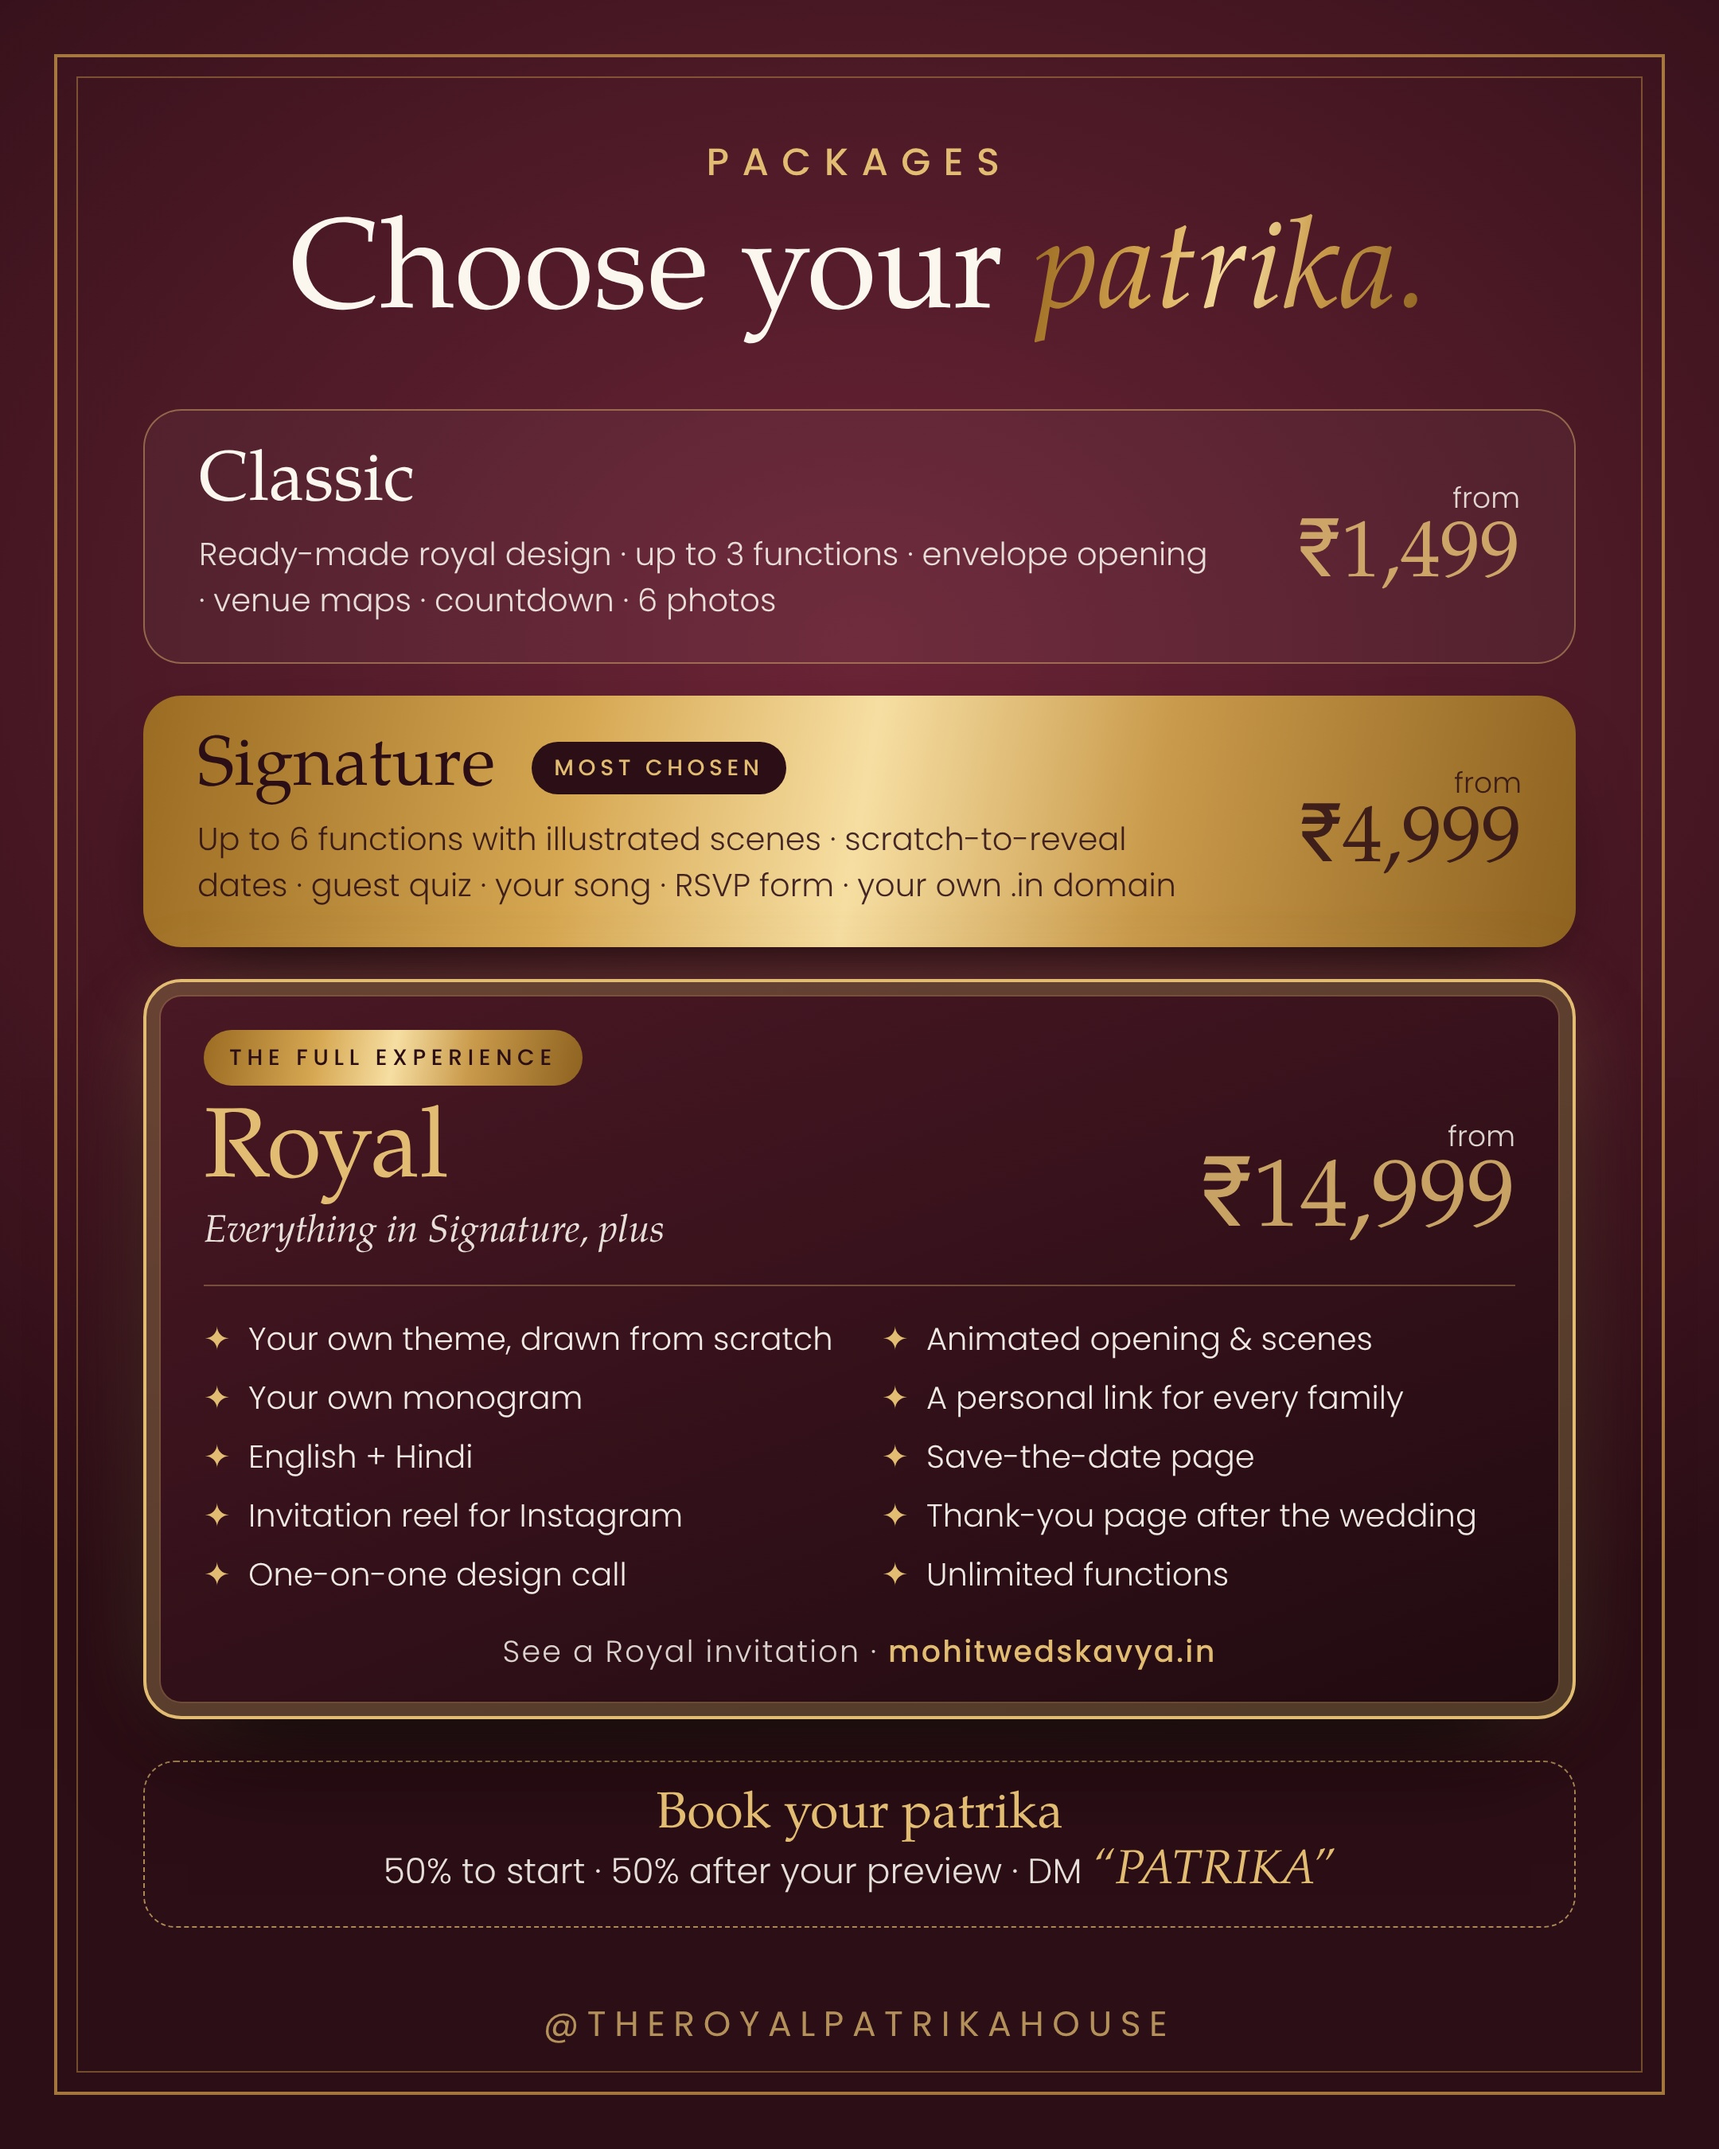
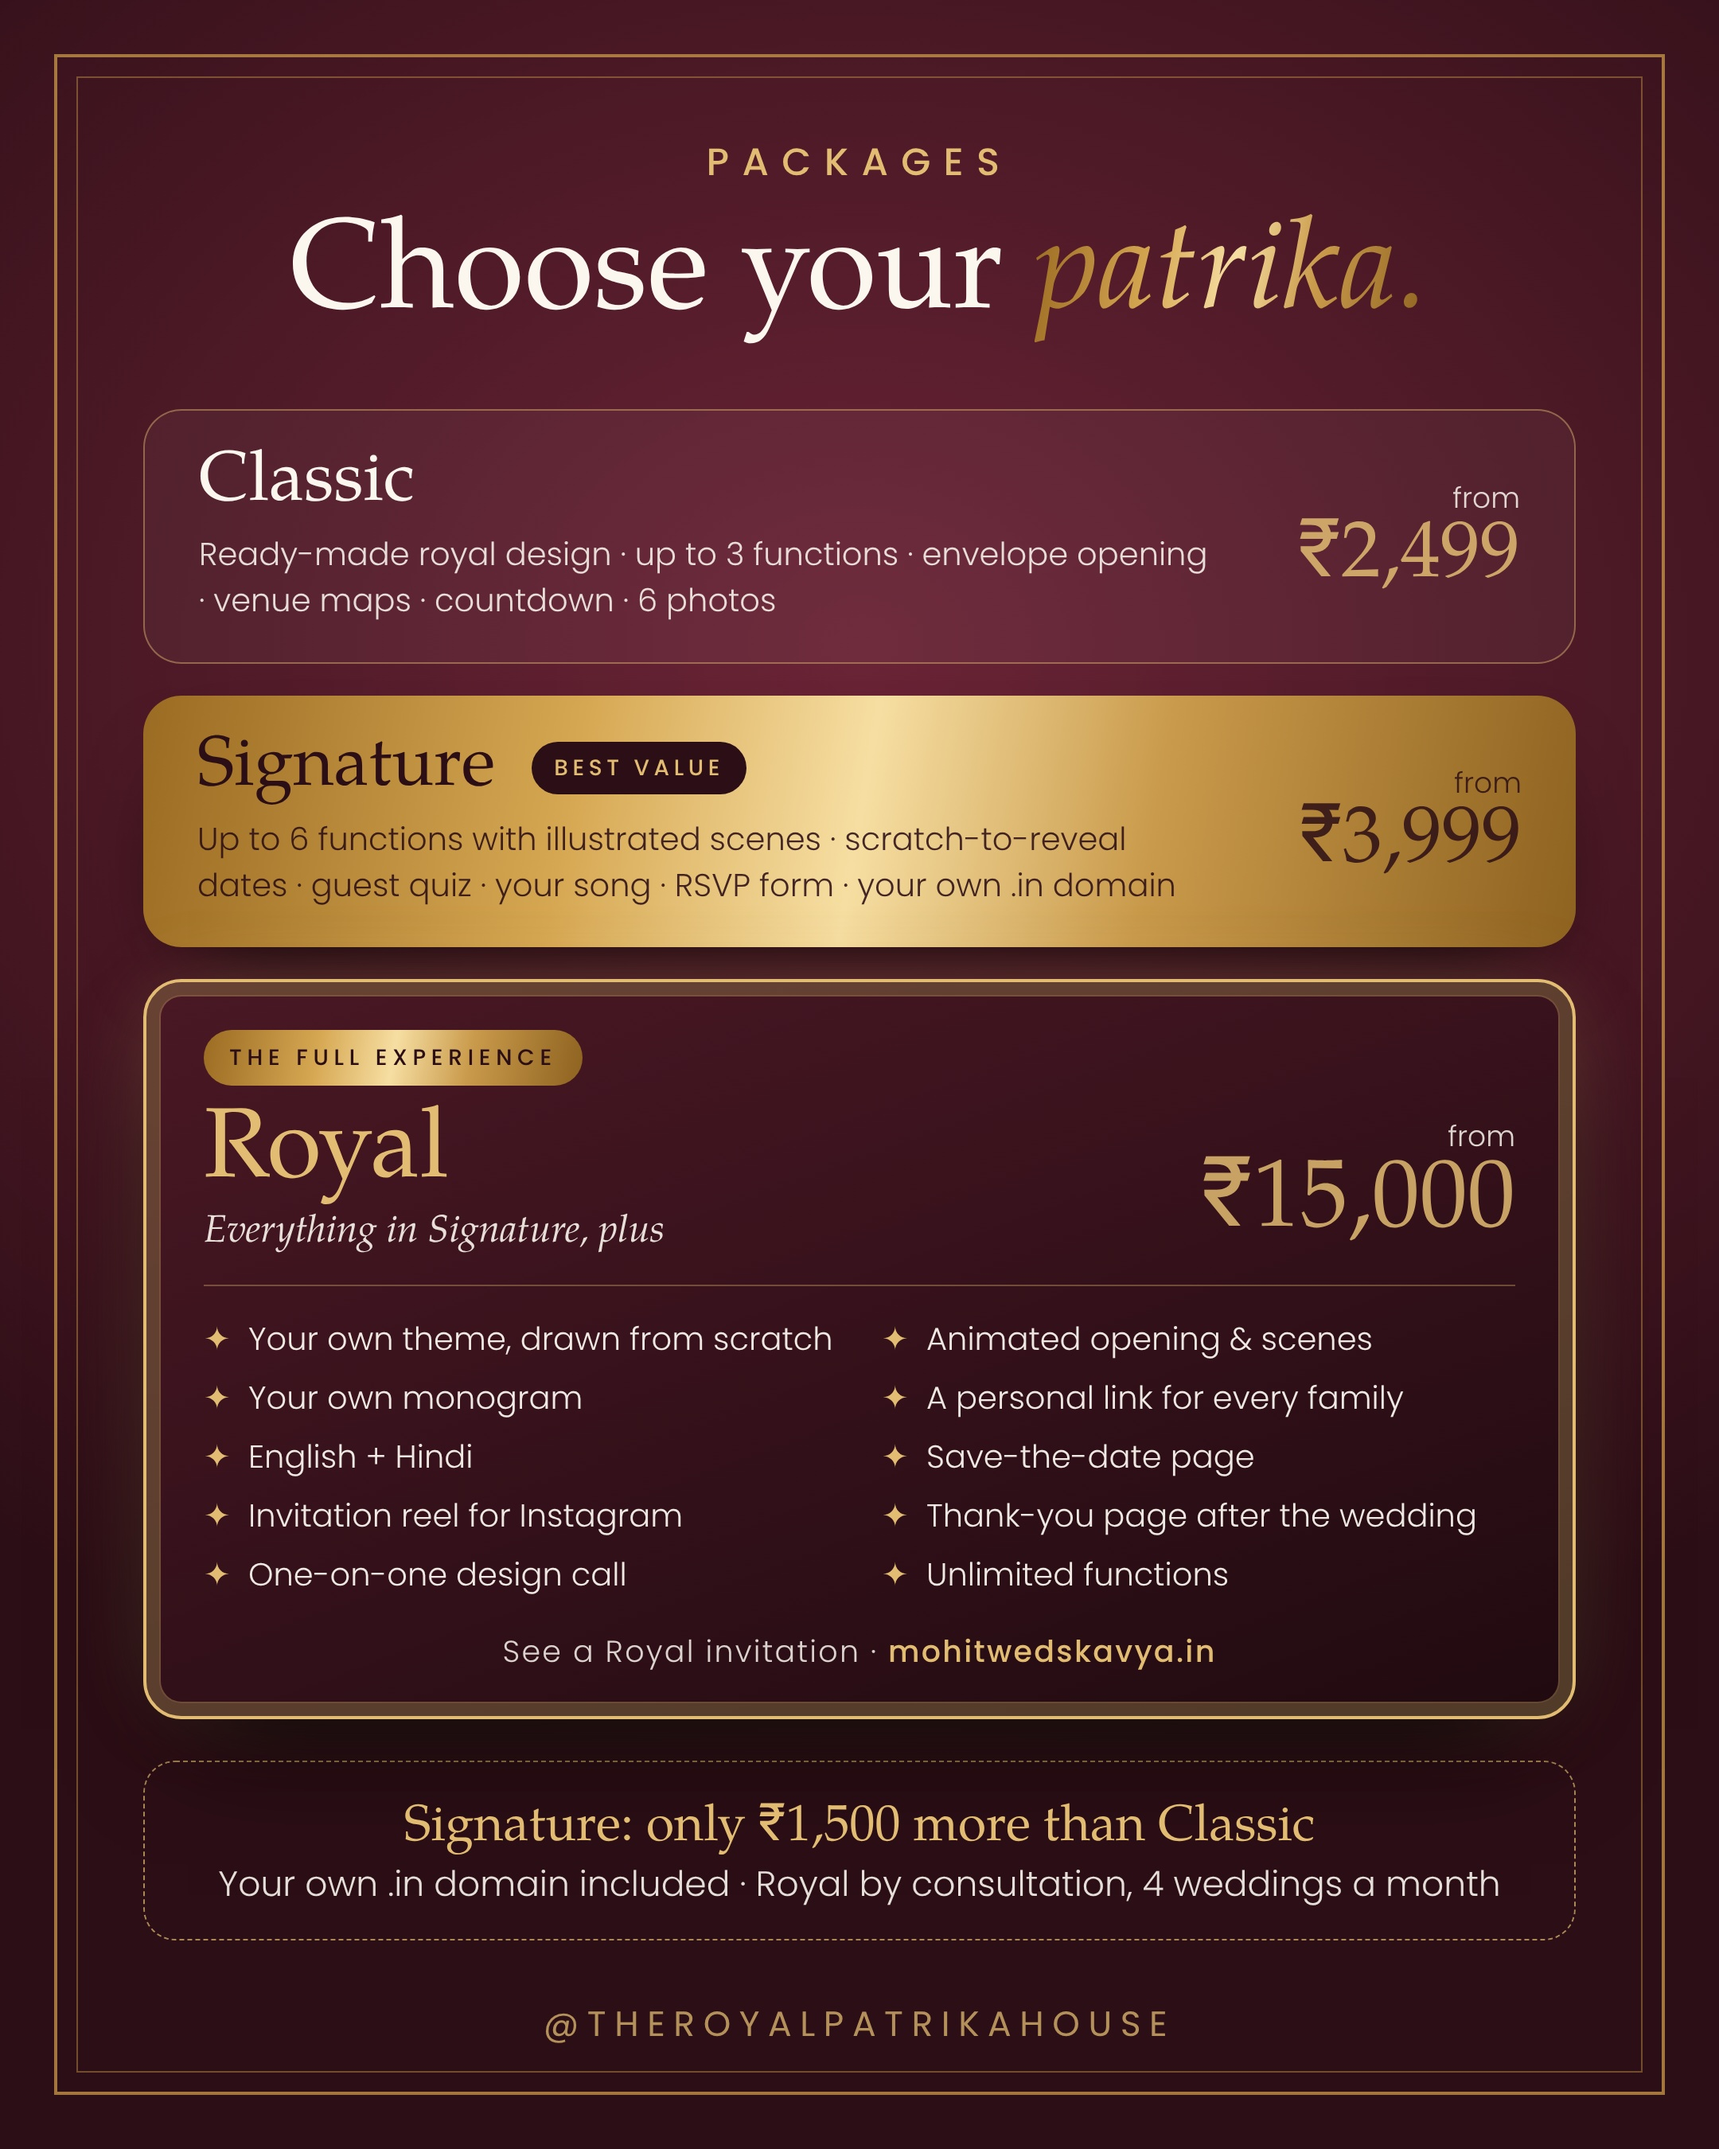
Pricing: Classic ₹2,499, Signature ₹3,999 (best value), Royal ₹15,000 by consultation
Claude-Session: https://claude.ai/code/session_0139wGDZrgQNh3LBzdxQgjCR

diff --git a/theroyalpatrikahouse-site/index.html b/theroyalpatrikahouse-site/index.html
@@ -270,6 +270,7 @@ section{padding:104px 0}
 .tier.royal li::before{content:"✦";color:var(--gold-l);font-size:12px;top:3px}
 .tier.royal .royal-sample{color:var(--gold-l);border-color:var(--gold-l);align-self:flex-start;margin:-10px 0 18px;font-size:14px}
 .tier li b{font-weight:500}
+.tier .more-note{margin:14px 0 0;font-size:14px;line-height:1.45;color:var(--gold-l)}
 .pay{display:flex;flex-wrap:wrap;justify-content:center;gap:10px 26px;margin-top:30px;font-size:14px;color:var(--muted)}
 .pay span::before{content:"✦";color:var(--gold);margin-right:8px;font-size:10px;vertical-align:2px}
 .more{display:grid;grid-template-columns:1fr 1fr;gap:22px;margin-top:34px;align-items:start}
@@ -531,7 +532,7 @@ footer .base{margin-top:56px;border-top:1px solid rgba(226,188,114,.18);padding:
         <video id="heroVid" muted loop playsinline preload="none"></video>
       </div>
       <div class="mini"><img src="/img/s-envelope.webp" alt="" width="585" height="1266"></div>
-      <div class="chip"><b>from ₹1,499</b>one link, every function</div>
+      <div class="chip"><b>from ₹2,499</b>one link, every function</div>
     </div>
   </div>
 </section>
@@ -560,7 +561,7 @@ footer .base{margin-top:56px;border-top:1px solid rgba(226,188,114,.18);padding:
         <div class="body">
           <div class="top">
             <div><h3>Gulabi Mahal</h3></div>
-            <div class="from">from<b>₹1,499</b></div>
+            <div class="from">from<b>₹2,499</b></div>
           </div>
           <div class="tags"><span>Royal Rajasthani</span><span>Rose-gold foil</span><span>Up to 6 functions</span></div>
           <p>A pink-palace theme with a lotus-pond opening, illustrated scenes for every function, scratch-to-reveal dates and a guest quiz. The live demo is Mohit &amp; Kavya's Royal invitation, with animated scenes and their own monogram.</p>
@@ -575,7 +576,7 @@ footer .base{margin-top:56px;border-top:1px solid rgba(226,188,114,.18);padding:
         <div class="body">
           <div class="top">
             <div><h3>Your own theme</h3></div>
-            <div class="from">from<b>₹14,999</b></div>
+            <div class="from">from<b>₹15,000</b></div>
           </div>
           <div class="tags"><span>Drawn from scratch</span><span>Your rituals</span><span>Your palette</span></div>
           <p>For the idea no design has yet: your venue, your traditions, your outfits. We agree the look with you on WhatsApp and quote before you pay anything.</p>
@@ -765,7 +766,7 @@ footer .base{margin-top:56px;border-top:1px solid rgba(226,188,114,.18);padding:
       <div class="tier rv">
         <h3>Classic</h3>
         <p class="for">A ready-made royal design, quick and simple. Up to 3 functions.</p>
-        <div class="price"><small>from</small>₹1,499</div>
+        <div class="price"><small>from</small>₹2,499</div>
         <span class="days">Ready in 3 days</span>
         <ul>
           <li>Choose a ready-made design from our collection</li>
@@ -776,17 +777,18 @@ footer .base{margin-top:56px;border-top:1px solid rgba(226,188,114,.18);padding:
           <li>Gallery of up to 6 photos</li>
           <li>RSVP call &amp; WhatsApp buttons</li>
           <li>WhatsApp preview image</li>
-          <li>Free link on our website</li>
+          <li>Free link on our website (your own domain comes with Signature)</li>
           <li>1 round of changes</li>
         </ul>
         <a class="btn btn-line wa" data-msg="Namaste! I'm interested in the Classic package." href="https://wa.me/919079898481">Choose Classic</a>
       </div>
       <div class="tier star rv">
-        <span class="tag">Most chosen</span>
+        <span class="tag">Best value</span>
         <h3>Signature</h3>
         <p class="for">For most families and full wedding weeks.</p>
-        <div class="price"><small>from</small>₹4,999</div>
+        <div class="price"><small>from</small>₹3,999</div>
         <span class="days">Ready in 5–7 days</span>
+        <p class="more-note">Only ₹1,500 more than Classic, and your own domain is included.</p>
         <ul>
           <li><b>Everything in Classic, plus:</b></li>
           <li>Up to 6 functions, each with its own illustrated scene</li>
@@ -799,7 +801,7 @@ footer .base{margin-top:56px;border-top:1px solid rgba(226,188,114,.18);padding:
           <li>Family blessings, warm regards and cousins</li>
           <li>RSVP form with guest count sheet</li>
           <li>Private preview link to check with family</li>
-          <li>Your own domain for 1 year, like rahulwedsriya.in</li>
+          <li><b>Your own domain for 1 year</b>, like rahulwedsriya.in</li>
           <li>3 rounds of changes, updates until the wedding</li>
         </ul>
         <a class="btn btn-gold wa" data-msg="Namaste! I'm interested in the Signature package." href="https://wa.me/919079898481">Choose Signature</a>
@@ -808,8 +810,8 @@ footer .base{margin-top:56px;border-top:1px solid rgba(226,188,114,.18);padding:
         <span class="tag">The full experience</span>
         <h3>Royal</h3>
         <p class="for">For grand and destination weddings. The invitation that becomes the talk of the family.</p>
-        <div class="price"><small>from</small>₹14,999</div>
-        <span class="days">Ready in 10–14 days</span>
+        <div class="price"><small>from</small>₹15,000</div>
+        <span class="days">By consultation · only 4 weddings a month</span>
         <ul>
           <li><b>Everything in Signature, plus:</b></li>
           <li>Your own theme, designed from scratch for your wedding</li>
@@ -827,7 +829,7 @@ footer .base{margin-top:56px;border-top:1px solid rgba(226,188,114,.18);padding:
           <li>Priority support, up to 5 rounds of changes</li>
         </ul>
         <a class="link royal-sample" href="https://mohitwedskavya.in" target="_blank" rel="noopener">See a Royal invitation: mohitwedskavya.in ↗</a>
-        <a class="btn btn-gold wa" data-msg="Namaste! I'm interested in the Royal package." href="https://wa.me/919079898481">Choose Royal</a>
+        <a class="btn btn-gold wa" data-msg="Namaste! I'd like to book a Royal consultation. Our wedding dates are: " href="https://wa.me/919079898481">Book a Royal consultation</a>
       </div>
     </div>
     <div class="pay rv"><span>50% to start, 50% after your preview</span><span>One-time payment</span><span>No hidden costs</span></div>
@@ -880,6 +882,7 @@ footer .base{margin-top:56px;border-top:1px solid rgba(226,188,114,.18);padding:
             <tr><td>Animated couple video for the opening</td><td>₹2,499</td></tr>
             <tr><td>Your own domain (.in, 1 year)</td><td>₹1,199</td></tr>
             <tr><td>Second language version</td><td>₹1,499</td></tr>
+            <tr><td>Personal guest links for every family (included in Royal)</td><td>₹1,999</td></tr>
             <tr><td>RSVP form with guest count sheet (included in Signature)</td><td>₹699</td></tr>
             <tr><td>Thank-you page with wedding photos</td><td>₹999</td></tr>
             <tr><td>Add your existing video invitation</td><td>₹499</td></tr>

diff --git a/theroyalpatrikahouse-site/details/index.html b/theroyalpatrikahouse-site/details/index.html
@@ -93,9 +93,9 @@ footer{text-align:center;color:var(--muted);font-size:13px;padding:0 16px 40px}
     <p class="hint">Not sure yet? Pick what feels closest. We'll confirm with you before starting.</p>
     <label><b>Package</b></label>
     <div class="chips" id="pkg">
-      <label class="chip"><input type="radio" name="package" value="Classic"><span><b>Classic</b><i>from ₹1,499</i></span></label>
-      <label class="chip"><input type="radio" name="package" value="Signature"><span><b>Signature</b><i>from ₹4,999</i></span></label>
-      <label class="chip"><input type="radio" name="package" value="Royal"><span><b>Royal</b><i>from ₹14,999</i></span></label>
+      <label class="chip"><input type="radio" name="package" value="Classic"><span><b>Classic</b><i>from ₹2,499</i></span></label>
+      <label class="chip"><input type="radio" name="package" value="Signature"><span><b>Signature</b><i>from ₹3,999</i></span></label>
+      <label class="chip"><input type="radio" name="package" value="Royal"><span><b>Royal</b><i>from ₹15,000</i></span></label>
     </div>
     <div class="grid" style="margin-top:18px">
       <div class="full"><label for="design"><b>Design</b></label>
